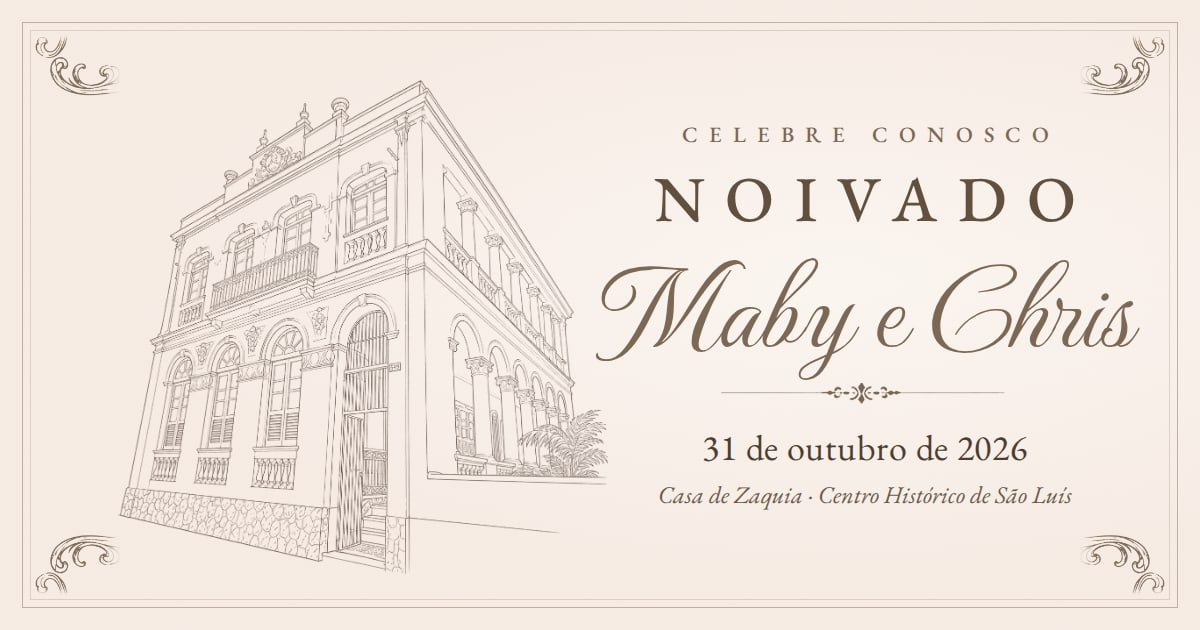
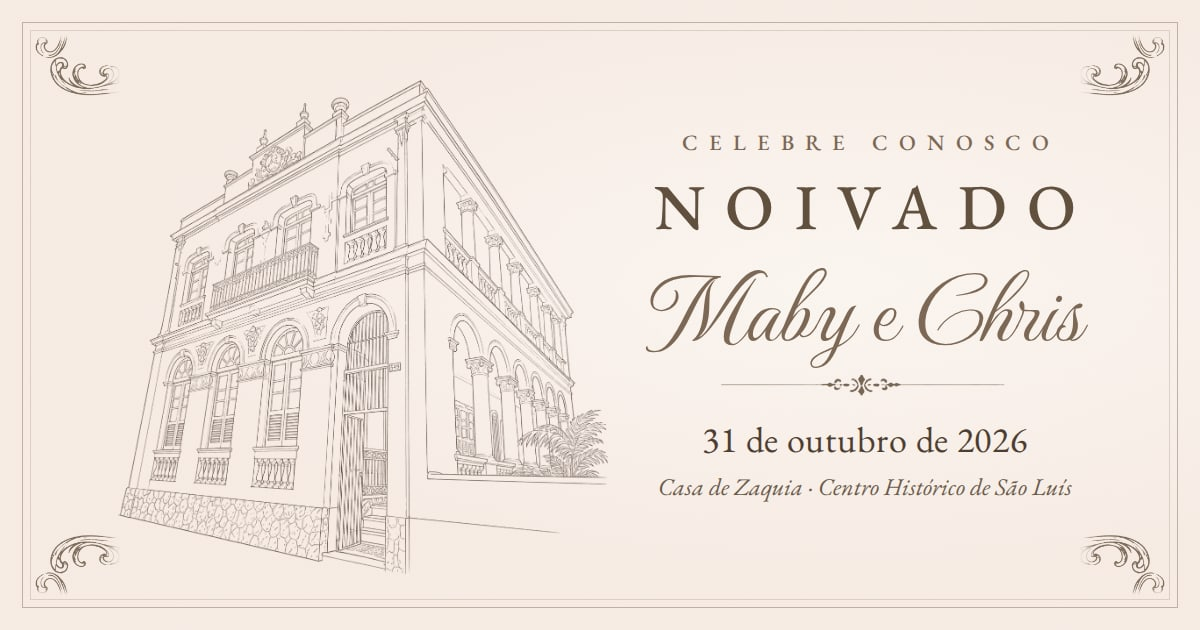
Prévia do link: nome do casal um pouco menor na imagem
O "Maby e Chris" da imagem de prévia (WhatsApp) passou de 118 para 96 px,
do tamanho do "NOIVADO". O endereço da imagem ganhou ?v=2 para o WhatsApp
buscar a versão nova em vez da que já guardou.

Claude-Session: https://claude.ai/code/session_01RaBFP2ph4wHoDaJy5H4dcZ

diff --git a/src/app/layout.tsx b/src/app/layout.tsx
@@ -23,9 +23,9 @@ export const metadata: Metadata = {
     description: '31 de outubro de 2026 · Casa de Zaquia · Centro Histórico de São Luís',
     // Prévia dos links (WhatsApp etc.): horizontal 1200×630, que o WhatsApp mostra grande. Nome novo de
     // arquivo para o WhatsApp não reaproveitar a prévia antiga do cache dele.
-    images: [{ url: '/brand/noivado-convite.jpg', width: 1200, height: 630, alt: 'Noivado de Maby e Chris — 31 de outubro de 2026, Casa de Zaquia' }],
+    images: [{ url: '/brand/noivado-convite.jpg?v=2', width: 1200, height: 630, alt: 'Noivado de Maby e Chris — 31 de outubro de 2026, Casa de Zaquia' }],
   },
-  twitter: { card: 'summary_large_image', images: ['/brand/noivado-convite.jpg'] },
+  twitter: { card: 'summary_large_image', images: ['/brand/noivado-convite.jpg?v=2'] },
   robots: { index: false, follow: false },
   formatDetection: { telephone: false, email: false, address: false },
 }
